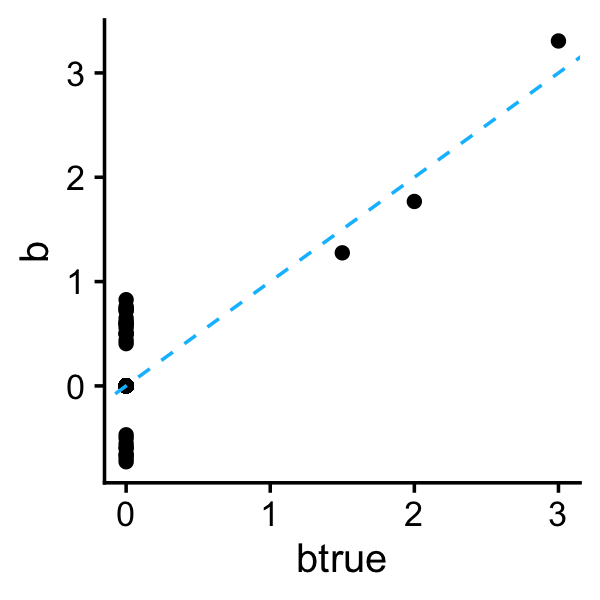
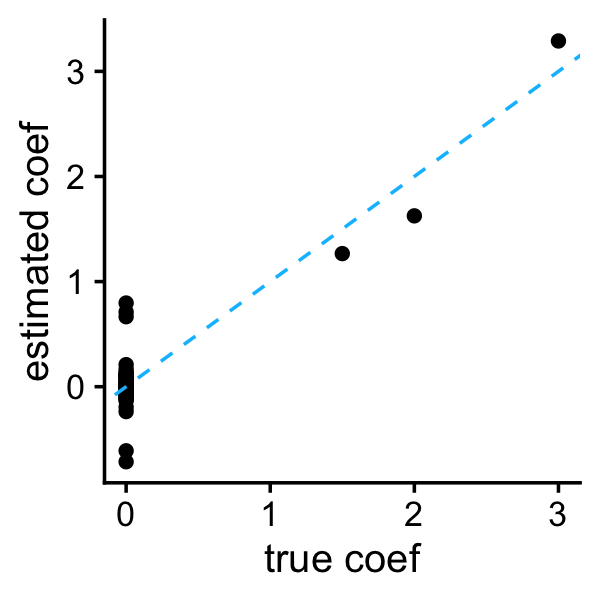
Added sslasso to linreg_methods_demo.

diff --git a/docs/linreg_methods_demo.html b/docs/linreg_methods_demo.html
@@ -308,7 +308,7 @@ aria-hidden="true"></span> </a>
 <div class="tab-content">
 <div id="summary" class="tab-pane fade in active">
 <p>
-<strong>Last updated:</strong> 2023-05-30
+<strong>Last updated:</strong> 2023-06-01
 </p>
 <p>
 <strong>Checks:</strong> <span
@@ -326,7 +326,7 @@ title="This is the local directory in which the code in this file was executed."
 This reproducible <a href="https://rmarkdown.rstudio.com">R Markdown</a>
 analysis was created with <a
   href="https://github.com/workflowr/workflowr">workflowr</a> (version
-1.7.0). The <em>Checks</em> tab describes the reproducibility checks
+1.7.0.5). The <em>Checks</em> tab describes the reproducibility checks
 that were applied when the results were created. The <em>Past
 versions</em> tab lists the development history.
 </p>
@@ -456,15 +456,15 @@ project makes it easier to run your code on other machines.</p>
 <div class="panel panel-default">
 <div class="panel-heading">
 <p class="panel-title">
-<a data-toggle="collapse" data-parent="#workflowr-checks" href="#strongRepositoryversionstrongahrefhttpsgithubcompcarbopcarbotreeea973fb2afc82cc3bd3e08eeba8a18cae5a216c7targetblankea973fba">
+<a data-toggle="collapse" data-parent="#workflowr-checks" href="#strongRepositoryversionstrongahrefhttpsgithubcompcarbopcarbotree103a6e55111a26f40f37d95794c0f6c7be462fd0targetblank103a6e5a">
 <span class="glyphicon glyphicon-ok text-success"
 aria-hidden="true"></span> <strong>Repository version:</strong>
-<a href="https://github.com/pcarbo/pcarbo/tree/ea973fb2afc82cc3bd3e08eeba8a18cae5a216c7" target="_blank">ea973fb</a>
+<a href="https://github.com/pcarbo/pcarbo/tree/103a6e55111a26f40f37d95794c0f6c7be462fd0" target="_blank">103a6e5</a>
 </a>
 </p>
 </div>
 <div
[2 lines of base64/hex data omitted]
 class="panel-collapse collapse">
 <div class="panel-body">
 <p>
@@ -474,7 +474,7 @@ reproducibility.
 </p>
 <p>
 The results in this page were generated with repository version
-<a href="https://github.com/pcarbo/pcarbo/tree/ea973fb2afc82cc3bd3e08eeba8a18cae5a216c7" target="_blank">ea973fb</a>.
+<a href="https://github.com/pcarbo/pcarbo/tree/103a6e55111a26f40f37d95794c0f6c7be462fd0" target="_blank">103a6e5</a>.
 See the <em>Past versions</em> tab to see a history of the changes made
 to the R Markdown and HTML files.
 </p>
@@ -792,6 +792,40 @@ Message
 </tr>
 </thead>
 <tbody>
+<tr>
+<td>
+Rmd
+</td>
+<td>
+<a href="https://github.com/pcarbo/pcarbo/blob/103a6e55111a26f40f37d95794c0f6c7be462fd0/analysis/linreg_methods_demo.Rmd" target="_blank">103a6e5</a>
+</td>
+<td>
+Peter Carbonetto
+</td>
+<td>
+2023-06-01
+</td>
+<td>
+workflowr::wflow_publish("linreg_methods_demo.Rmd", verbose = TRUE)
+</td>
+</tr>
+<tr>
+<td>
+html
+</td>
+<td>
+<a href="https://rawcdn.githack.com/pcarbo/pcarbo/6023561ff585ad53485cbe4c91ee6d9da24416a6/docs/linreg_methods_demo.html" target="_blank">6023561</a>
+</td>
+<td>
+Peter Carbonetto
+</td>
+<td>
+2023-05-30
+</td>
+<td>
+Added dlbayes results to linreg_methods_demo.
+</td>
+</tr>
 <tr>
 <td>
 Rmd
@@ -1233,7 +1267,7 @@ intercept.)</p>
 <h2>L0Learn</h2>
 <p>First, let’s try the <a
 href="https://cran.r-project.org/package=L0Learn">L0Learn</a> from <a
-href="https://doi.org/10.1287/opre.2019.1919">Hazimeh and Mazumder
+href="https://doi.org/10.1287/opre.2019.1919">Hazimeh &amp; Mazumder
 2020</a>. In the <a
 href="https://cran.r-project.org/web/packages/L0Learn/vignettes/L0Learn-vignette.html">vignette</a>,
 the authors suggest using the “L0L1” or “L0L2” penalties for better
@@ -1413,7 +1447,7 @@ has better prediction performance than the L0 penalty.</p>
 <div id="trimmed-lasso" class="section level2">
 <h2>Trimmed Lasso</h2>
 <p>The Trimmed Lasso was described by <a
-href="https://doi.org/10.1137/20M1330634">Amir, Basri and Nadler
+href="https://doi.org/10.1137/20M1330634">Amir, Basri &amp; Nadler
 2021</a>. It is implemented in <a
 href="https://github.com/tal-amir/sparse-approximation-gsm">MATLAB</a>,
 so there is a separate script, <code>trimmed_lasso.m</code>, to run the
@@ -1558,6 +1592,43 @@ y &lt;- predict(horseshoe,X = test$X,burnin = 1000)
 plot_grid(plot_coefs(btrue,b),
           plot_responses(test$y,y))</code></pre>
 <p><img src="figure/linreg_methods_demo.Rmd/horseshoe-2-1.png" width="600" style="display: block; margin: auto;" /></p>
+<p>
+<button type="button" class="btn btn-default btn-xs btn-workflowr btn-workflowr-fig" data-toggle="collapse" data-target="#fig-horseshoe-2-1">
+Past versions of horseshoe-2-1.png
+</button>
+</p>
+<div id="fig-horseshoe-2-1" class="collapse">
+<div class="table-responsive">
+<table class="table table-condensed table-hover">
+<thead>
+<tr>
+<th>
+Version
+</th>
+<th>
+Author
+</th>
+<th>
+Date
+</th>
+</tr>
+</thead>
+<tbody>
+<tr>
+<td>
+<a href="https://github.com/pcarbo/pcarbo/blob/6023561ff585ad53485cbe4c91ee6d9da24416a6/docs/figure/linreg_methods_demo.Rmd/horseshoe-2-1.png" target="_blank">6023561</a>
+</td>
+<td>
+Peter Carbonetto
+</td>
+<td>
+2023-05-30
+</td>
+</tr>
+</tbody>
+</table>
+</div>
+</div>
 </div>
 <div id="dirichlet-laplace" class="section level2">
 <h2>Dirichlet-Laplace</h2>
@@ -1605,27 +1676,82 @@ y &lt;- drop(b0 + test$X %*% b)
 plot_grid(plot_coefs(btrue,b),
           plot_responses(test$y,y))</code></pre>
 <p><img src="figure/linreg_methods_demo.Rmd/dirichlet-laplace-2-1.png" width="600" style="display: block; margin: auto;" /></p>
+<p>
+<button type="button" class="btn btn-default btn-xs btn-workflowr btn-workflowr-fig" data-toggle="collapse" data-target="#fig-dirichlet-laplace-2-1">
+Past versions of dirichlet-laplace-2-1.png
+</button>
+</p>
+<div id="fig-dirichlet-laplace-2-1" class="collapse">
+<div class="table-responsive">
+<table class="table table-condensed table-hover">
+<thead>
+<tr>
+<th>
+Version
+</th>
+<th>
+Author
+</th>
+<th>
+Date
+</th>
+</tr>
+</thead>
+<tbody>
+<tr>
+<td>
+<a href="https://github.com/pcarbo/pcarbo/blob/6023561ff585ad53485cbe4c91ee6d9da24416a6/docs/figure/linreg_methods_demo.Rmd/dirichlet-laplace-2-1.png" target="_blank">6023561</a>
+</td>
+<td>
+Peter Carbonetto
+</td>
+<td>
+2023-05-30
+</td>
+</tr>
+</tbody>
+</table>
+</div>
+</div>
 <p>The results are not impressive. However, it is possible that there
 are better choices for the hyperparameter setting than the one given by
 <code>dlhyper</code>.</p>
 </div>
 <div id="sslasso" class="section level2">
 <h2>SSLASSO</h2>
-<p>Next let’s try both the “adaptive” and “separable” variants of the <a
+<p>Now let’s try the <a
 href="https://cran.r-project.org/package=SSLASSO">Spike-and-Slab
-LASSO</a>:</p>
-<pre class="r"><code>sslasso_adapt &lt;-
-  with(train,SSLASSO(X,y,penalty = &quot;adaptive&quot;,variance = &quot;unknown&quot;))
-sslasso_sep &lt;-
-  with(train,SSLASSO(X,y,penalty = &quot;separable&quot;,variance = &quot;unknown&quot;))</code></pre>
+LASSO</a>, both the “adaptive” and “separable” variants. For the SSLASSO
+with the separable penalty, it would be a bit of an unfair advantage to
+set the prior inclusion probability <span
+class="math inline">\(\theta\)</span> to the true value, so here we set
+it to a value (0.05) larger than the true value (0.003).</p>
+<pre class="r"><code>sslasso_sep &lt;-
+with(train,SSLASSO(X,y,penalty = &quot;separable&quot;,variance = &quot;unknown&quot;,
+                   theta = 0.05))
+sslasso_adapt &lt;-
+  with(train,SSLASSO(X,y,penalty = &quot;adaptive&quot;,variance = &quot;unknown&quot;,
+                     lambda0 = seq(3,200,length.out = 100),lambda1 = 3))</code></pre>
+<p>Note that there is a bug in SSLASSO: To override the default choice
+for <code>lambda1</code>, you need to specify both <code>lambda0</code>
+and <code>lambda1</code>.</p>
 <p>Let’s take a look at the SSLASSO with separable penalty first. As far
 as I can tell, the SSLASSO does not provide an automated way to select
-the spike and slab penalties, so I’ll choose one by hand:</p>
-<pre class="r"><code>b &lt;- sslasso_sep$beta[,16]
-qplot(btrue,b) +
-  geom_abline(intercept = 0,slope = 1,color = &quot;deepskyblue&quot;,
-              linetype = &quot;dashed&quot;) +
-  theme_cowplot(font_size = 12)  </code></pre>
+the spike penalty parameter <span
+class="math inline">\(\lambda_0\)</span>, so here, to keep things
+simple, I choose this penalty by hand. (In general we would probably
+want to implement a simple cross-validation scheme to choose this
+penalty, as well as the slab penalty <span
+class="math inline">\(\lambda_1\)</span>, although <a
+href="https://doi.org/10.1080/01621459.2016.1260469">Rockova &amp;
+George 2018</a> observe that the performance is not very sensitive to
+the choice of <span class="math inline">\(\lambda_1\)</span>, so it
+seems reasonable to try a small number of settings, e.g., <span
+class="math inline">\(\lambda_1 = \{0.1, 0.5, 1, 5, 10\}\)</span>,
+similar to what was done in the SSLASSO paper.)</p>
+<pre class="r"><code>i &lt;- 8
+b &lt;- sslasso_sep$beta[,i]
+plot_coefs(btrue,b)</code></pre>
 <p><img src="figure/linreg_methods_demo.Rmd/plot-coef-sslasso-sep-1.png" width="300" style="display: block; margin: auto;" /></p>
 <p>
 <button type="button" class="btn btn-default btn-xs btn-workflowr btn-workflowr-fig" data-toggle="collapse" data-target="#fig-plot-coef-sslasso-sep-1">
@@ -1666,11 +1792,8 @@ Peter Carbonetto
 </div>
 <p>Compare these estimates to the estimates obtained by the adaptive
 SSLASSO:</p>
-<pre class="r"><code>b &lt;- sslasso_adapt$beta[,16]
-qplot(btrue,b) +
-  geom_abline(intercept = 0,slope = 1,color = &quot;deepskyblue&quot;,
-              linetype = &quot;dashed&quot;) +
-  theme_cowplot(font_size = 12)  </code></pre>
+<pre class="r"><code>b &lt;- sslasso_adapt$beta[,i]
+plot_coefs(btrue,b)</code></pre>
 <p><img src="figure/linreg_methods_demo.Rmd/plot-coef-sslasso-adapt-1.png" width="300" style="display: block; margin: auto;" /></p>
 <p>
 <button type="button" class="btn btn-default btn-xs btn-workflowr btn-workflowr-fig" data-toggle="collapse" data-target="#fig-plot-coef-sslasso-adapt-1">
@@ -1709,25 +1832,24 @@ Peter Carbonetto
 </table>
 </div>
 </div>
-<p>Another annoying thing about the SSLASSO package is that it does not
-provide a “predict” method. So we will compute the predictions by hand
-after extracting the :</p>
-<pre class="r"><code>b0 &lt;- sslasso_sep$intercept[16]
-b  &lt;- sslasso_sep$beta[,16]
+<p>Observe that the adaptive variant did a much better job shrinking the
+small coefficients to zero. Both methods accurately estimated the
+residual variance:</p>
+<pre class="r"><code>tail(sslasso_sep$sigmas,n = 1)
+tail(sslasso_adapt$sigmas,n = 1)
+# [1] 3.157303
+# [1] 3.162328</code></pre>
+<p>SSLASSO package does not provide a “predict” method so we need to
+compute the predictions by hand after extracting the coefficient
+estimates.</p>
+<pre class="r"><code>b0 &lt;- sslasso_sep$intercept[i]
+b  &lt;- sslasso_sep$beta[,i]
 y  &lt;- drop(b0 + test$X %*% b)
-p1 &lt;- qplot(test$y,y) +
-  geom_abline(intercept = 0,slope = 1,color = &quot;deepskyblue&quot;,
-              linetype = &quot;dashed&quot;) +
-  ggtitle(sprintf(&quot;separable (mse = %0.3f)&quot;,mse(test$y,y))) +
-  theme_cowplot(font_size = 12)
-b0 &lt;- sslasso_adapt$intercept[16]
-b  &lt;- sslasso_adapt$beta[,16]
+p1 &lt;- plot_responses(test$y,y)
+b0 &lt;- sslasso_adapt$intercept[i]
+b  &lt;- sslasso_adapt$beta[,i]
 y  &lt;- drop(b0 + test$X %*% b)
-p2 &lt;- qplot(test$y,y) +
-  geom_abline(intercept = 0,slope = 1,color = &quot;deepskyblue&quot;,
-              linetype = &quot;dashed&quot;) +
-  ggtitle(sprintf(&quot;adaptive (mse = %0.3f)&quot;,mse(test$y,y))) +
-  theme_cowplot(font_size = 12)
+p2 &lt;- plot_responses(test$y,y)
 plot_grid(p1,p2)</code></pre>
 <p><img src="figure/linreg_methods_demo.Rmd/predict-sslasso-1.png" width="600" style="display: block; margin: auto;" /></p>
 <p>
@@ -1789,6 +1911,9 @@ Peter Carbonetto
 </table>
 </div>
 </div>
+<p>In this example, the adaptive penalty performed a bit better than the
+separable penalty with <span class="math inline">\(\theta =
+0.05\)</span>.</p>
 </div>
 <div id="emvs" class="section level2">
 <h2>EMVS</h2>
@@ -1992,7 +2117,7 @@ Session information
 # [13] rlang_1.0.6        R.oo_1.24.0        jquerylib_0.1.4    later_1.0.0       
 # [17] pillar_1.6.2       withr_2.5.0        R.utils_2.11.0     glue_1.4.2        
 # [21] DBI_1.1.0          lifecycle_1.0.3    plyr_1.8.5         stringr_1.4.0     
-# [25] munsell_0.5.0      gtable_0.3.0       workflowr_1.7.0    R.methodsS3_1.8.1 
+# [25] munsell_0.5.0      gtable_0.3.0       workflowr_1.7.0.5  R.methodsS3_1.8.1 
 # [29] coda_0.19-3        evaluate_0.14      labeling_0.3       knitr_1.37        
 # [33] fastmap_1.1.0      httpuv_1.5.2       fansi_0.4.0        highr_0.8         
 # [37] Rcpp_1.0.8         promises_1.1.0     scales_1.1.0       RcppParallel_5.1.5
